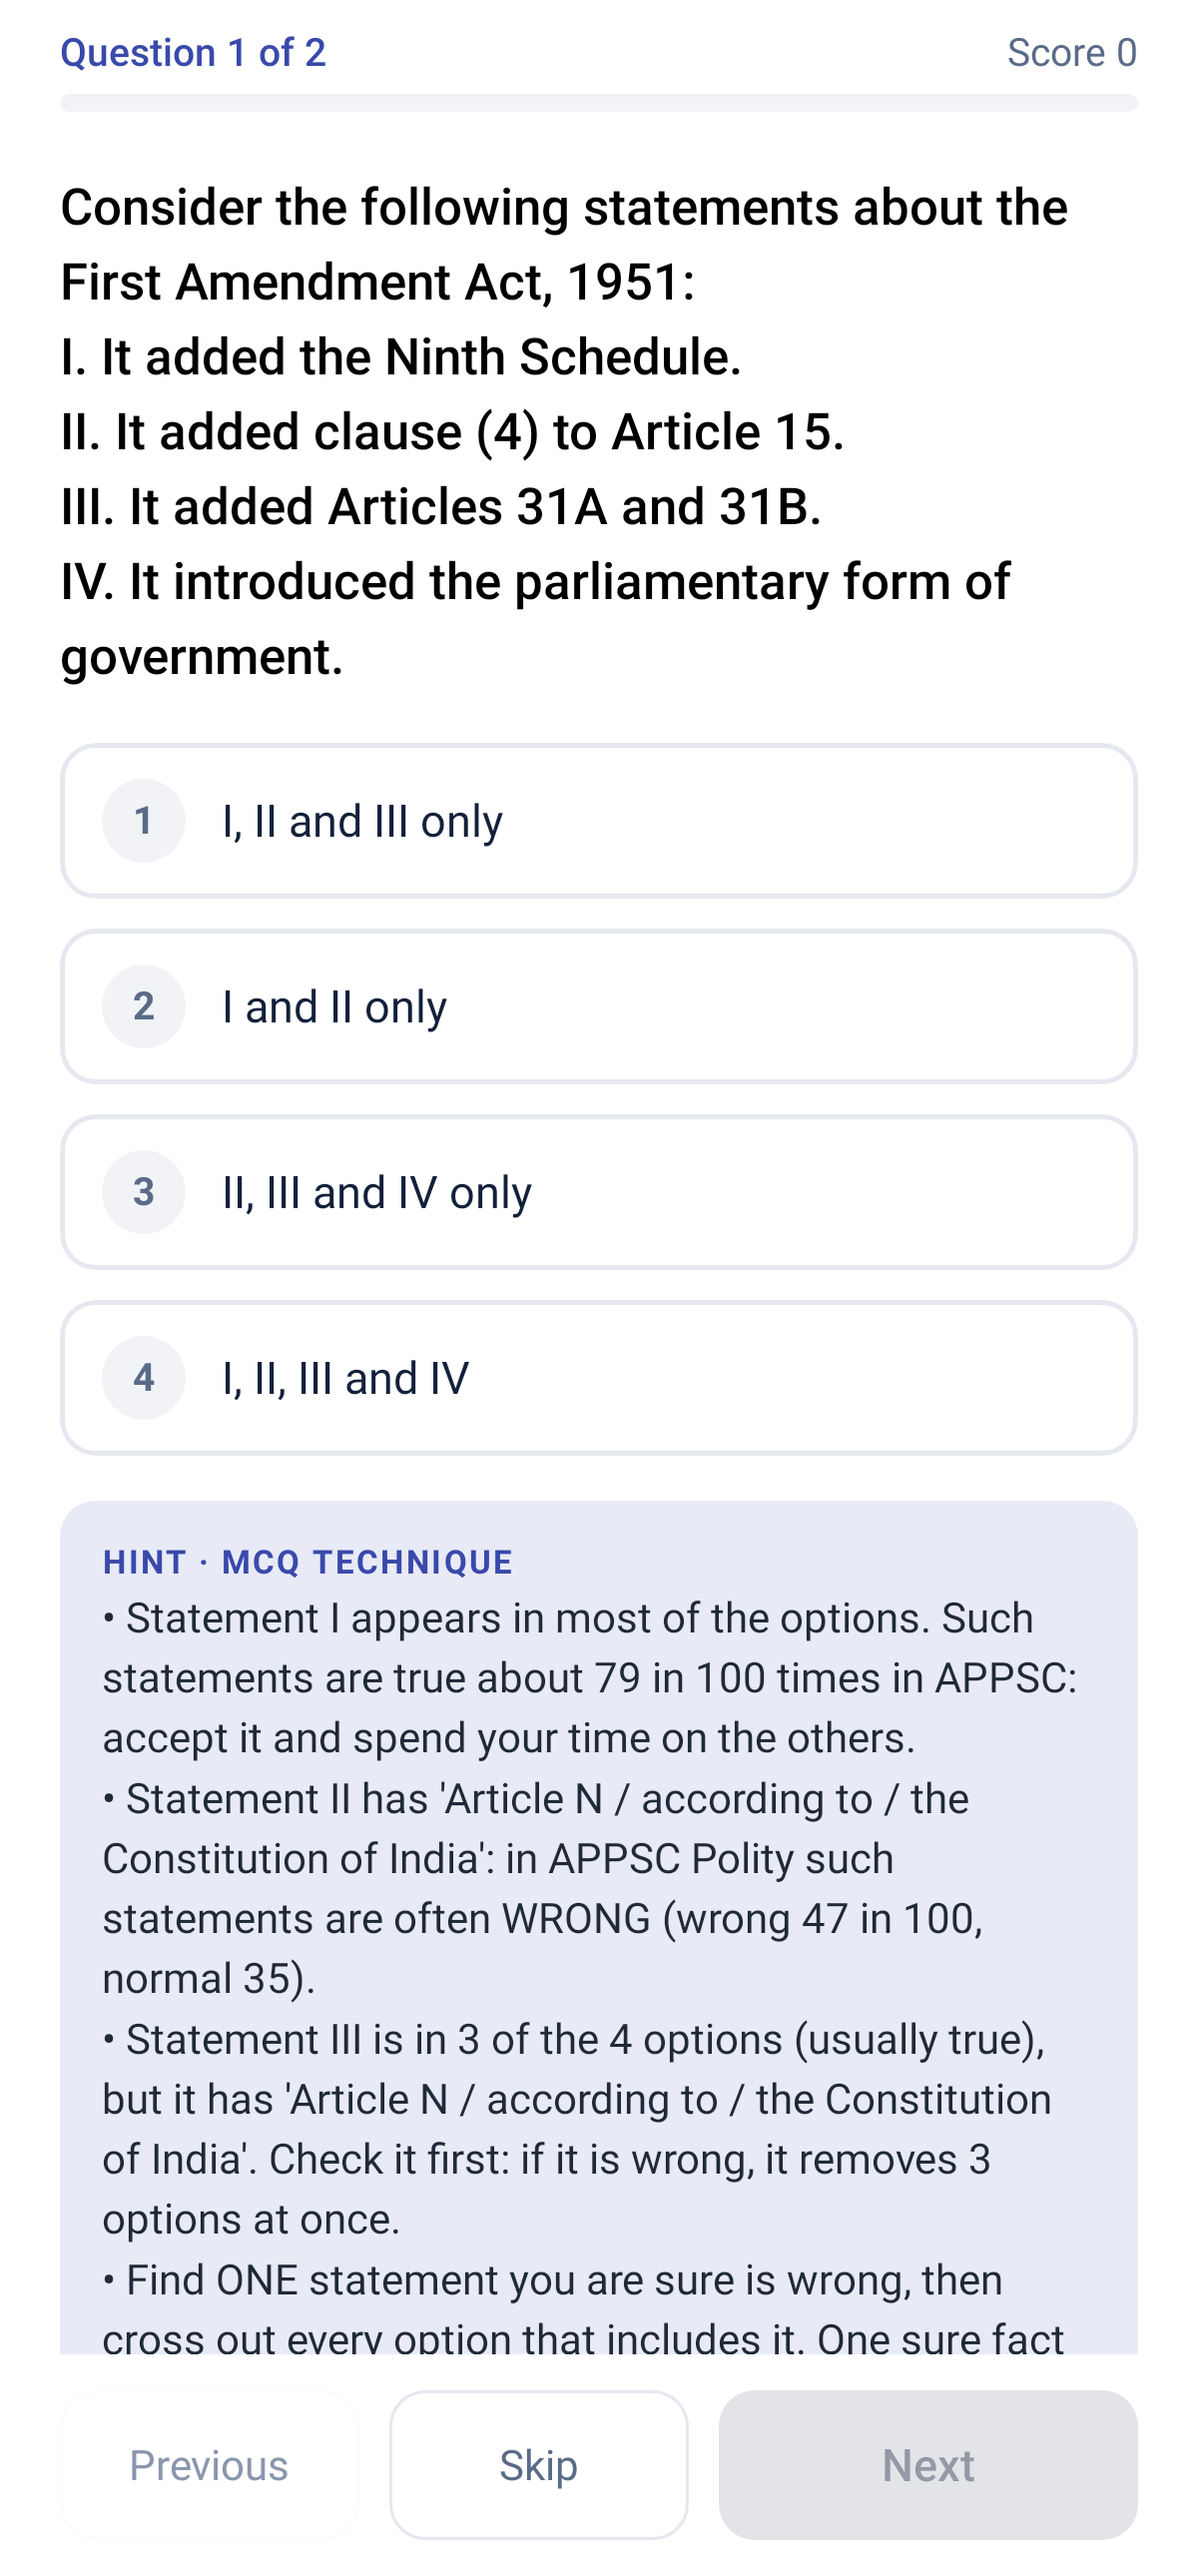
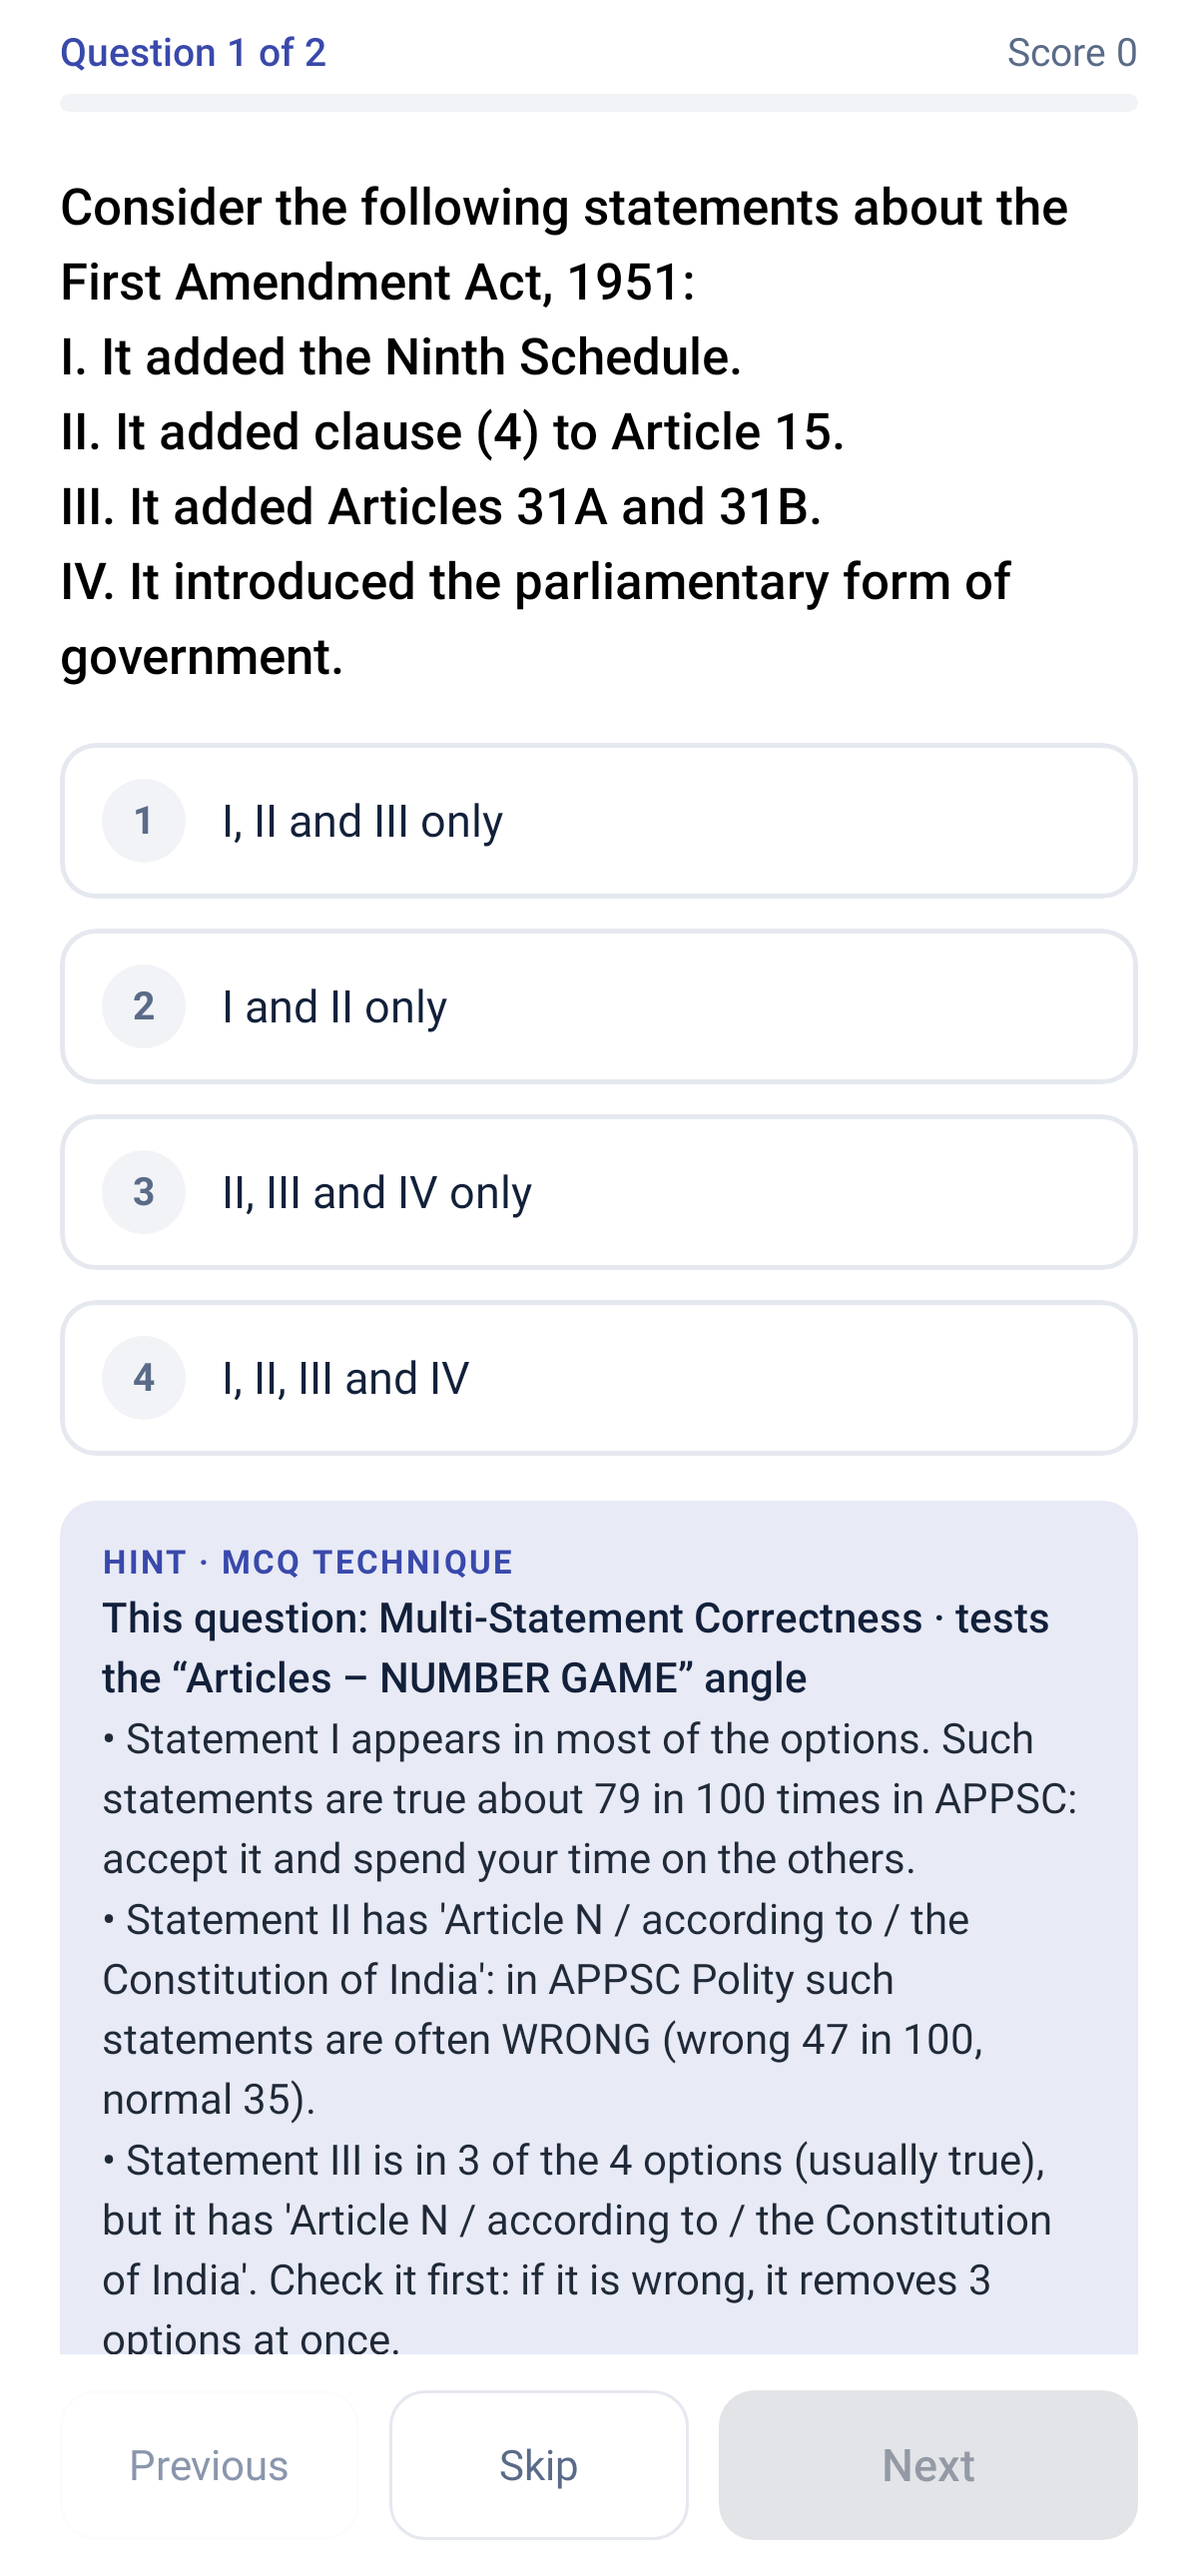
v1.4: hint shows the question's technique, then the answer on request (from APPSC Prep v2.34)
Stuck? Show a hint gives this question's own technique with the guide's
hints; Still stuck? Show the answer reveals the right option and the
reasoning. An answer shown first is practice (attempted, not scored).
Android (Rocket Prep and Rocket Revision) and Windows; 93 tests pass.

Claude-Session: https://claude.ai/code/session_012tnZ1hikrsgBcTHp5TxwmM

Changed region(s): [[0.0925, 0.6202, 0.8942, 0.9302]]

diff --git a/android/app/src/main/java/com/appsc/prep/ui/screens/QuizScreen.kt b/android/app/src/main/java/com/appsc/prep/ui/screens/QuizScreen.kt
@@ -164,6 +164,7 @@ internal fun QuizRound(
     val store = app.store
     var index by rememberSaveable(key) { mutableIntStateOf(0) }
     val picks = remember(key) { mutableStateListOf<Int>().apply { repeat(set.size) { add(-1) } } }
+    val revealed = remember(key) { mutableStateListOf<String>() } // answers shown before picking (not scored)
     val listState = rememberLazyListState()
     LaunchedEffect(index) { listState.scrollToItem(0) }
 
@@ -178,7 +179,8 @@ internal fun QuizRound(
     fun pick(i: Int) {
         if (answered || q.kind == 'f' || i !in q.options.indices) return
         picks[index] = i
-        if (q.kind == 'u') store.markSeen(q.id) else store.recordAnswer(q.id, i == q.answer)
+        // an answer seen first ("Show the answer") is practice: attempted, not scored
+        if (q.kind == 'u' || q.id in revealed) store.markSeen(q.id) else store.recordAnswer(q.id, i == q.answer)
     }
     app.platform.Shortcuts { k ->
         when {
@@ -233,14 +235,14 @@ internal fun QuizRound(
                                 if (answered) {
                                     Spacer(Modifier.height(8.dp))
                                     UnscoredNote(q)
-                                } else HintBox(q)
+                                } else HintBox(q) { revealed += q.id }
                             }
                             else -> {
                                 q.options.forEachIndexed { i, opt -> OptionCard(i, opt, picked, q.answer) { pick(i) } }
                                 if (answered) {
                                     Spacer(Modifier.height(8.dp))
                                     Explanation(q, picked == q.answer, picked, onOpenNotes)
-                                } else HintBox(q)
+                                } else HintBox(q) { revealed += q.id }
                             }
                         }
                         Spacer(Modifier.height(20.dp))
@@ -453,12 +455,17 @@ private fun Explanation(q: Question, correct: Boolean, picked: Int, onOpenNotes:
     }
 }
 
-/** "Stuck?" hint from the MCQ techniques guide; shown only before answering and never reveals the key. */
+/**
+ * "Stuck?" before answering, in two steps: first the techniques (the guide's hints and this question's own
+ * technique), then - only if asked - the answer with the technique that gets there.
+ */
 @Composable
-private fun HintBox(q: Question) {
+private fun HintBox(q: Question, onReveal: () -> Unit) {
     val hints = remember(q.id) { Techniques.hints(q) }
-    if (hints.isEmpty()) return
+    val hasAnswer = q.answer in q.options.indices
+    if (hints.isEmpty() && q.technique.isBlank() && !hasAnswer) return
     var open by rememberSaveable(q.id) { mutableStateOf(false) }
+    var answer by rememberSaveable(q.id) { mutableStateOf(false) }
     Spacer(Modifier.height(10.dp))
     if (!open) {
         OutlinedButton(
@@ -470,14 +477,53 @@ private fun HintBox(q: Question) {
     }
     Column(Modifier.fillMaxWidth().clip(RoundedCornerShape(12.dp)).background(C.AccentSoft).padding(14.dp)) {
         Text("HINT · MCQ TECHNIQUE", style = TextStyle(fontSize = 11.sp, fontWeight = FontWeight.Bold, color = C.Accent, letterSpacing = 0.8.sp))
+        if (q.technique.isNotBlank()) {
+            Text(
+                "This question: ${q.technique}",
+                style = TextStyle(fontSize = 14.sp, lineHeight = 20.sp, fontWeight = FontWeight.SemiBold, color = C.Ink),
+                modifier = Modifier.padding(top = 4.dp),
+            )
+        }
         hints.forEach {
             Text("• $it", style = TextStyle(fontSize = 14.sp, lineHeight = 20.sp, color = C.Body), modifier = Modifier.padding(top = 4.dp))
         }
-        Text(
-            "Knowledge first: use these only when you are stuck.",
-            style = TextStyle(fontSize = 12.sp, color = C.Muted),
-            modifier = Modifier.padding(top = 6.dp),
-        )
+        if (hasAnswer && !answer) {
+            Text(
+                "Still stuck? Show the answer › (it will not count in your score)",
+                style = TextStyle(fontSize = 14.sp, fontWeight = FontWeight.SemiBold, color = C.High),
+                modifier = Modifier.padding(top = 10.dp).clickable { answer = true; onReveal() },
+            )
+        }
+        if (hasAnswer && answer) {
+            Spacer(Modifier.height(10.dp))
+            Column(Modifier.fillMaxWidth().clip(RoundedCornerShape(10.dp)).background(Color.White).padding(12.dp)) {
+                Text("ANSWER", style = TextStyle(fontSize = 11.sp, fontWeight = FontWeight.Bold, color = C.Green, letterSpacing = 0.8.sp))
+                Text(
+                    "(${q.answer + 1}) ${q.options[q.answer]}",
+                    style = TextStyle(fontSize = 15.sp, lineHeight = 21.sp, fontWeight = FontWeight.Bold, color = C.Green),
+                    modifier = Modifier.padding(top = 2.dp),
+                )
+                // how the technique gets there: the explanation's reasoning
+                if (q.explanation.isNotBlank()) {
+                    Text(
+                        "How the technique gets there: ${q.explanation}",
+                        style = TextStyle(fontSize = 14.sp, lineHeight = 20.sp, color = C.Body),
+                        modifier = Modifier.padding(top = 6.dp),
+                    )
+                }
+                Text(
+                    "Now pick it to see the full explanation and your notes. Shown answers are practice: not scored.",
+                    style = TextStyle(fontSize = 12.sp, color = C.Muted),
+                    modifier = Modifier.padding(top = 6.dp),
+                )
+            }
+        } else {
+            Text(
+                "Knowledge first: use these only when you are stuck.",
+                style = TextStyle(fontSize = 12.sp, color = C.Muted),
+                modifier = Modifier.padding(top = 6.dp),
+            )
+        }
     }
 }
 

diff --git a/android/app/src/testNotes/java/com/appsc/prep/ScreenshotTest.kt b/android/app/src/testNotes/java/com/appsc/prep/ScreenshotTest.kt
@@ -271,6 +271,28 @@ class ScreenshotTest {
     }
 
 
+    /** Stuck → hint (this question's technique), then the answer on request - practice, not scored. */
+    @Test fun hintThenAnswer() {
+        val ctx = ApplicationProvider.getApplicationContext<android.content.Context>()
+        val q = runBlocking { Repository { ctx.assets.open(it) }.mcq(2) }.rows.values.flatten().first {
+            it.kind == 's' && it.technique.isNotBlank() && it.stem.length < 300 && it.explanation.length < 300
+        }
+        shot("30_hint_answer") { QuizRound("ha", listOf(q, q), listOf(q), {}, {}) }
+        rule.onNodeWithText("Stuck? Show a hint").performClick()
+        rule.waitForIdle()
+        rule.onNodeWithText("This question: ${q.technique}").assertExists()
+        rule.onNodeWithText("Still stuck? Show the answer", substring = true).performClick()
+        rule.waitForIdle()
+        rule.onNodeWithText("(${q.answer + 1}) ${q.options[q.answer]}").assertExists()
+        rule.onRoot().captureRoboImage("screenshots/30_hint_answer.png")
+        // picking the shown answer: attempted, not scored as correct
+        rule.onAllNodesWithText(q.options[q.answer])[0].performClick()
+        rule.waitForIdle()
+        val store = com.appsc.prep.data.ProgressStore(com.appsc.prep.platform.PrefsStorage(ctx))
+        assertTrue(q.id in store.seen)
+        assertEquals(null, store.answers[q.id])
+    }
+
     @Test fun books() = shot("7_notes") { BooksScreen(nav) }
     @Test fun progress() {
         shot("8_progress") { ProgressScreen(nav) }

diff --git a/README.md b/README.md
@@ -60,6 +60,10 @@ a link to the page; long-press any word → Meaning (offline dictionary + Indian
 Key terms on every page (`scripts/build_key_terms.py`); Explain simply / Google / Open in Chrome / Ask Gemini;
 own notes; backup and restore (Progress tab); read-aloud with full forms.
 
+**v1.4** (APPSC Prep v2.34): "Stuck? Show a hint" gives the question's own technique with the guide's hints;
+"Still stuck? Show the answer" reveals the right option and the reasoning. An answer shown first counts as
+practice (attempted, not scored).
+
 ### Windows app
 
 `android/desktop` is the same screens for Windows (Compose for Desktop), using the whole window: lists in
